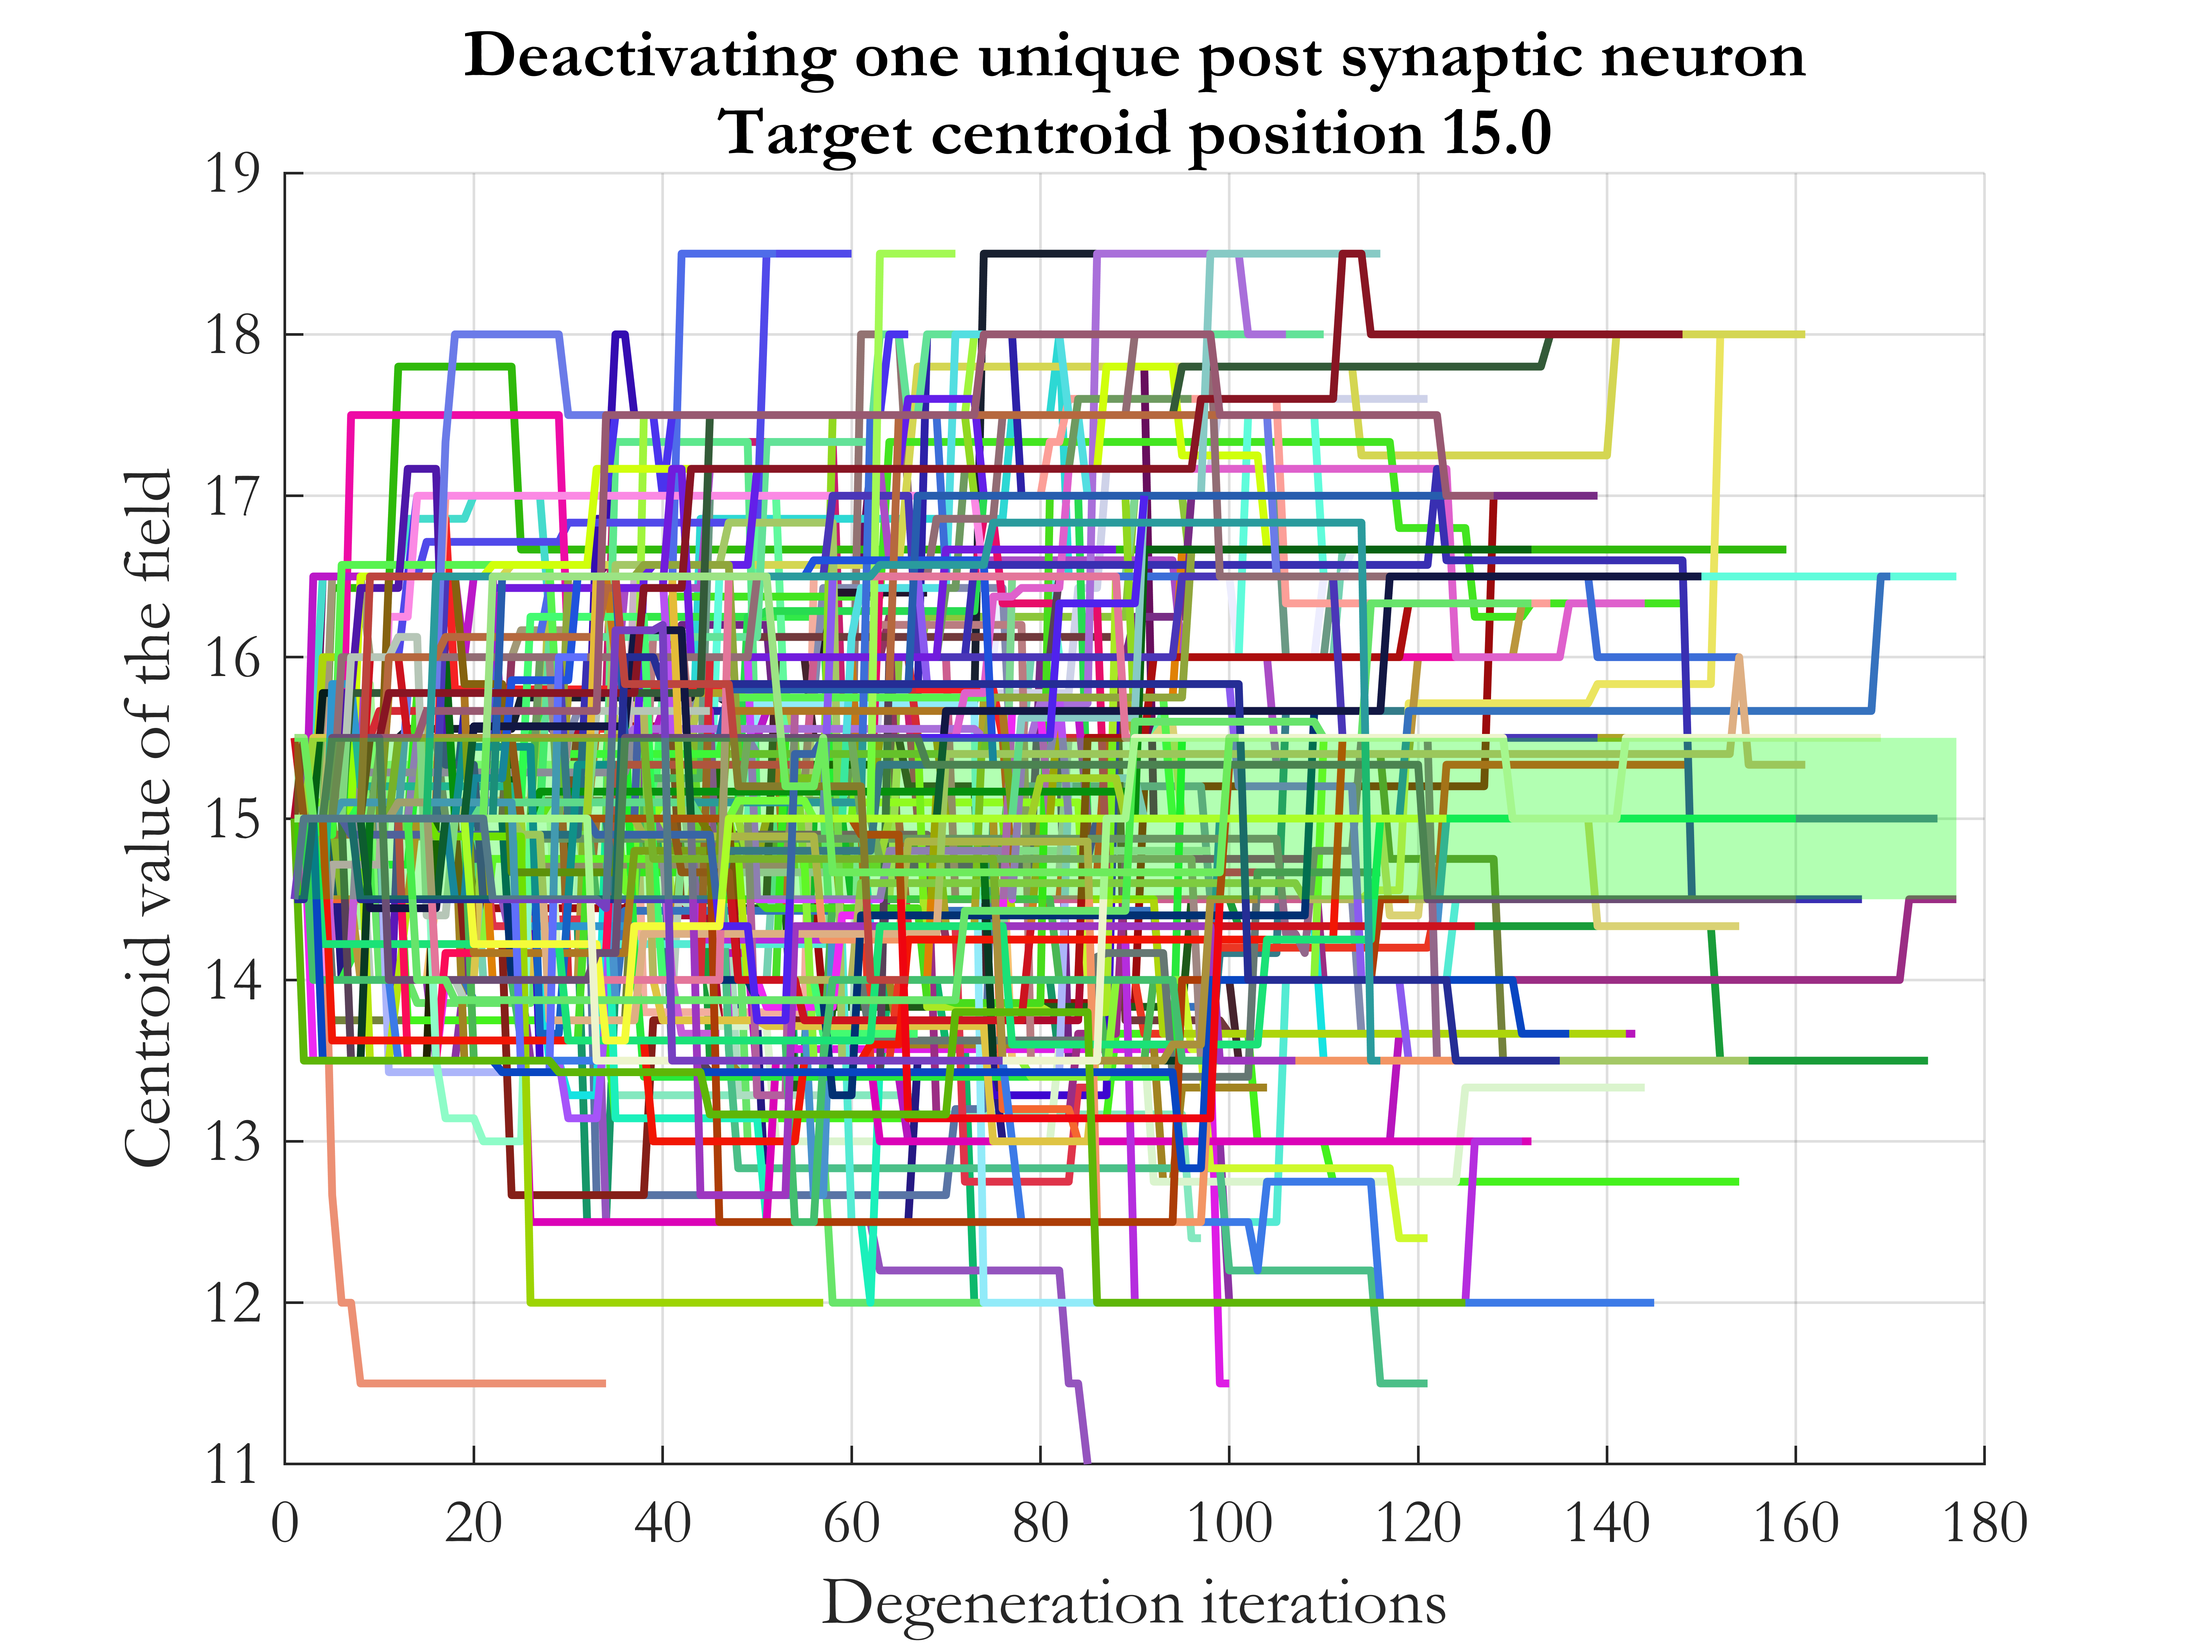
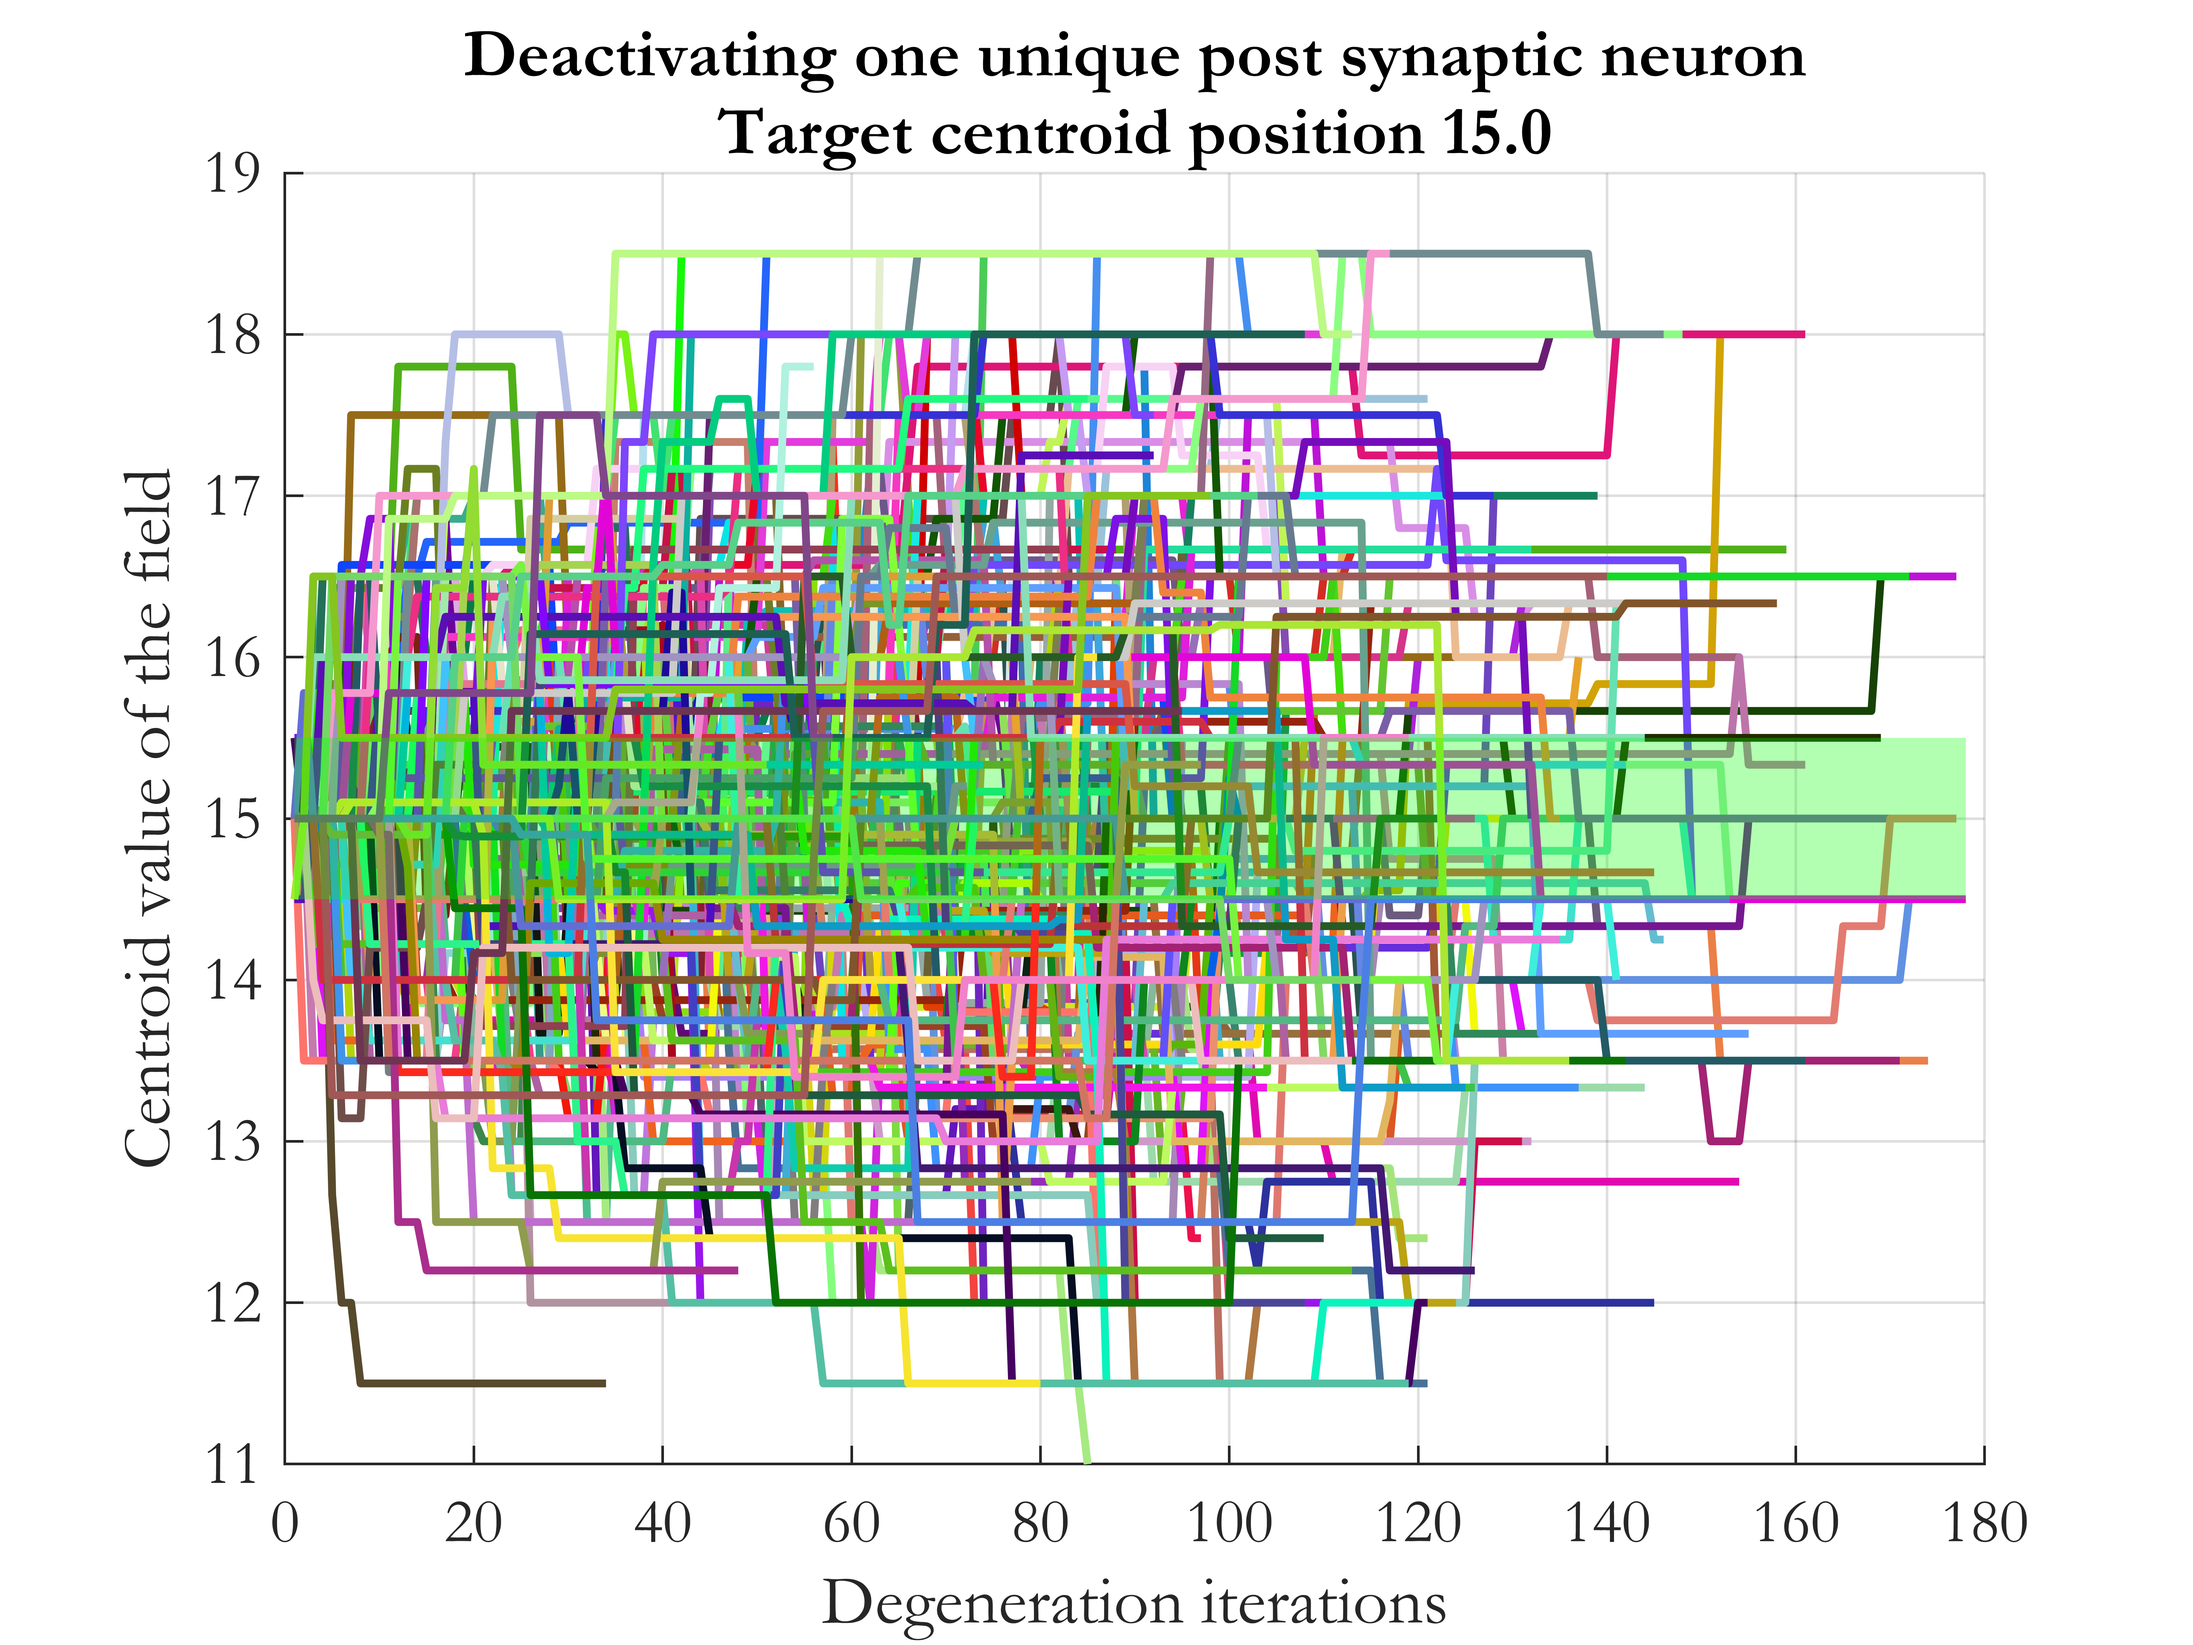
addressing error

Changed region(s): [[0.1248, 0.1243, 0.9049, 0.8704], [0.156, 0.8082, 0.2808, 0.8704]]

diff --git a/dynamic-neural-field-degeneration/src/dnfcomposer-handler.cpp b/dynamic-neural-field-degeneration/src/dnfcomposer-handler.cpp
@@ -32,7 +32,8 @@ DnfcomposerHandler::DnfcomposerHandler(bool isUserInterfaceActive)
 void DnfcomposerHandler::init()
 {
 	dnfcomposerThread = std::thread(&DnfcomposerHandler::step, this);
-	readCentroidsThread = std::thread(&DnfcomposerHandler::updateFieldCentroids, this);
+	if(simulationParameters.isUserInterfaceActive)
+		readCentroidsThread = std::thread(&DnfcomposerHandler::updateFieldCentroids, this);
 }
 
 void DnfcomposerHandler::step()
@@ -46,12 +47,16 @@ void DnfcomposerHandler::step()
 			activateDegeneration();
 		else if(wasExternalInputUpdated)
 			updateExternalInput();
-		else
+		else if(hasTrialFinished)
+		{
+			simulation->close();
+			hasTrialFinished = false;
+		} else
 			application->step();
 
 		if (simulationParameters.isUserInterfaceActive)
 			userRequestClose = application->getCloseUI();
-		Sleep(10);
+		Sleep(5);
 	}
 
 	application->close();
@@ -59,9 +64,9 @@ void DnfcomposerHandler::step()
 
 void DnfcomposerHandler::close()
 {
-	// Wait for the thread to finish its execution
 	dnfcomposerThread.join();
-	readCentroidsThread.join();
+	if (simulationParameters.isUserInterfaceActive)
+		readCentroidsThread.join();
 }
 
 void DnfcomposerHandler::stop()
@@ -72,7 +77,8 @@ void DnfcomposerHandler::stop()
 void DnfcomposerHandler::closeSimulation()
 {
 	numberOfDegeneratedElements = 0;
-	simulation->close();
+	hasTrialFinished = true;
+	//simulation->close();
 }
 
 void DnfcomposerHandler::setDegeneracy(ElementDegeneracyType degeneracyType, const std::string& fieldToDegenerate)
@@ -119,11 +125,8 @@ void DnfcomposerHandler::setIsUserInterfaceActiveAs(bool isUserInterfaceActive) 
 
 void DnfcomposerHandler::setCentroidDataBeingAccessed(bool isCentroidDataBeingAccessed)
 {
-	//Sleep(4);
 	this->isCentroidDataBeingAccessed = isCentroidDataBeingAccessed;
-	//Sleep(4);
 }
-
 
 double DnfcomposerHandler::getInputFieldCentroid() const
 {
@@ -214,10 +217,6 @@ void DnfcomposerHandler::updateFieldCentroids()
 
 void DnfcomposerHandler::activateDegeneration()
 {
-	//static int elementCount = 0;
-	//numberOfDegeneratedElements++;
-
-
 	switch (simulationParameters.degeneracyType)
 	{
 	case ElementDegeneracyType::NEURONS_DEACTIVATE:

diff --git a/dynamic-neural-field-degeneration/src/experiment-handler.cpp b/dynamic-neural-field-degeneration/src/experiment-handler.cpp
@@ -78,11 +78,10 @@ void ExperimentHandler::step()
 			dnfcomposerHandler.setTrial(i);
 
 			setupProcedure();
-			//Sleep(20);
 			degenerationProcedure();
 			cleanUpTrial();
 		}
-		Sleep(20);
+		Sleep(5);
 	}
 	setExperimentAsEnded();
 }
@@ -109,13 +108,9 @@ void ExperimentHandler::degenerationProcedure()
 	while (!isOutputFieldDegenerated)
 	{
 		// save centroid of the output field
-		Sleep(2);
-		dnfcomposerHandler.setCentroidDataBeingAccessed(true);
-		Sleep(2);
+		//dnfcomposerHandler.setCentroidDataBeingAccessed(true);
 		data.outputFieldCentroidHistory.push_back(dnfcomposerHandler.getOutputFieldCentroid());
-		Sleep(2);
-		dnfcomposerHandler.setCentroidDataBeingAccessed(false);
-		Sleep(2);
+		//dnfcomposerHandler.setCentroidDataBeingAccessed(false);
 		//if (params.isDebugModeOn)
 			//std::cout << "Output field centroid: " << dnfcomposerHandler.getOutputFieldCentroid() << std::endl;
 
@@ -129,7 +124,8 @@ void ExperimentHandler::degenerationProcedure()
 		isOutputFieldDegenerated = hasOutputFieldDegenerated();
 	}
 
-	std::cout << "Number of degeneration steps: " << data.outputFieldCentroidHistory.size() << std::endl;
+	if (params.isDebugModeOn)
+		std::cout << "Number of degeneration steps: " << data.outputFieldCentroidHistory.size() << std::endl;
  }
 
 void ExperimentHandler::cleanUpTrial()
@@ -143,11 +139,10 @@ void ExperimentHandler::cleanUpTrial()
 
 bool ExperimentHandler::hasOutputFieldDegenerated()
 {
-	dnfcomposerHandler.setCentroidDataBeingAccessed(true);
-	Sleep(4);
+	//dnfcomposerHandler.setCentroidDataBeingAccessed(true);
+	//Sleep(4);
 	const double outputFieldCentroid = dnfcomposerHandler.getOutputFieldCentroid();
-	dnfcomposerHandler.setCentroidDataBeingAccessed(false);
-	Sleep(4);
+	//dnfcomposerHandler.setCentroidDataBeingAccessed(false);
 
 	if (outputFieldCentroid < 0)
 		return true;

diff --git a/dynamic-neural-field-degeneration/dynamic-neural-field-degeneration.cpp b/dynamic-neural-field-degeneration/dynamic-neural-field-degeneration.cpp
@@ -8,13 +8,13 @@ ExperimentParameters setExperimentParameters()
 	params.numberOfTrials = 50;
     params.decisionTolerance = 0.5;
 
-    params.degeneracyType = ElementDegeneracyType::WEIGHTS_REDUCE;
+    params.degeneracyType = ElementDegeneracyType::NEURONS_DEACTIVATE;
     params.fieldToDegenerate = "perceptual";
     setDegeneracyNameAndTypeOfElements(params);
 
-    params.startingExternalStimulus = 1;
+    params.startingExternalStimulus = 0;
     params.isDataSavingOn = true;
-    params.isVisualisationOn = false;
+    params.isVisualisationOn = true;
     params.isDebugModeOn = true;
 
     return params;

diff --git a/dynamic-neural-field-degeneration/data/results/matlab-analysis-files/obtain_results.m b/dynamic-neural-field-degeneration/data/results/matlab-analysis-files/obtain_results.m
@@ -3,11 +3,11 @@ clear;
 clc;
 
 %% Setup variables
-experiments = {%'deactivate weights', 'weight'; ...
+experiments = {'deactivate weights', 'weight'; ...
                %'reduce 0.4 weights', 'weight'; ...
                %'reduce 0.6 weights', 'weight'; ...
                %'reduce 0.8 weights', 'weight'; ...
-               %'randomize weights', 'weight'; ...
+               'randomize weights', 'weight'; ...
                'deactivate pre-synaptic neurons', 'pre-synaptic neuron'; ...
                'deactivate post-synaptic neurons', 'post synaptic neuron'; ...
                };

diff --git a/dynamic-neural-field-degeneration/include/dnfcomposer-handler.h b/dynamic-neural-field-degeneration/include/dnfcomposer-handler.h
@@ -48,6 +48,7 @@ private:
 	bool wasExternalInputUpdated = false;
 	bool wasDegenerationRequested = false;
 	bool haveFieldsSettled = false;
+	bool hasTrialFinished = false;
 	bool hasExperimentFinished = false;
 	bool isCentroidDataBeingAccessed = false;
 
